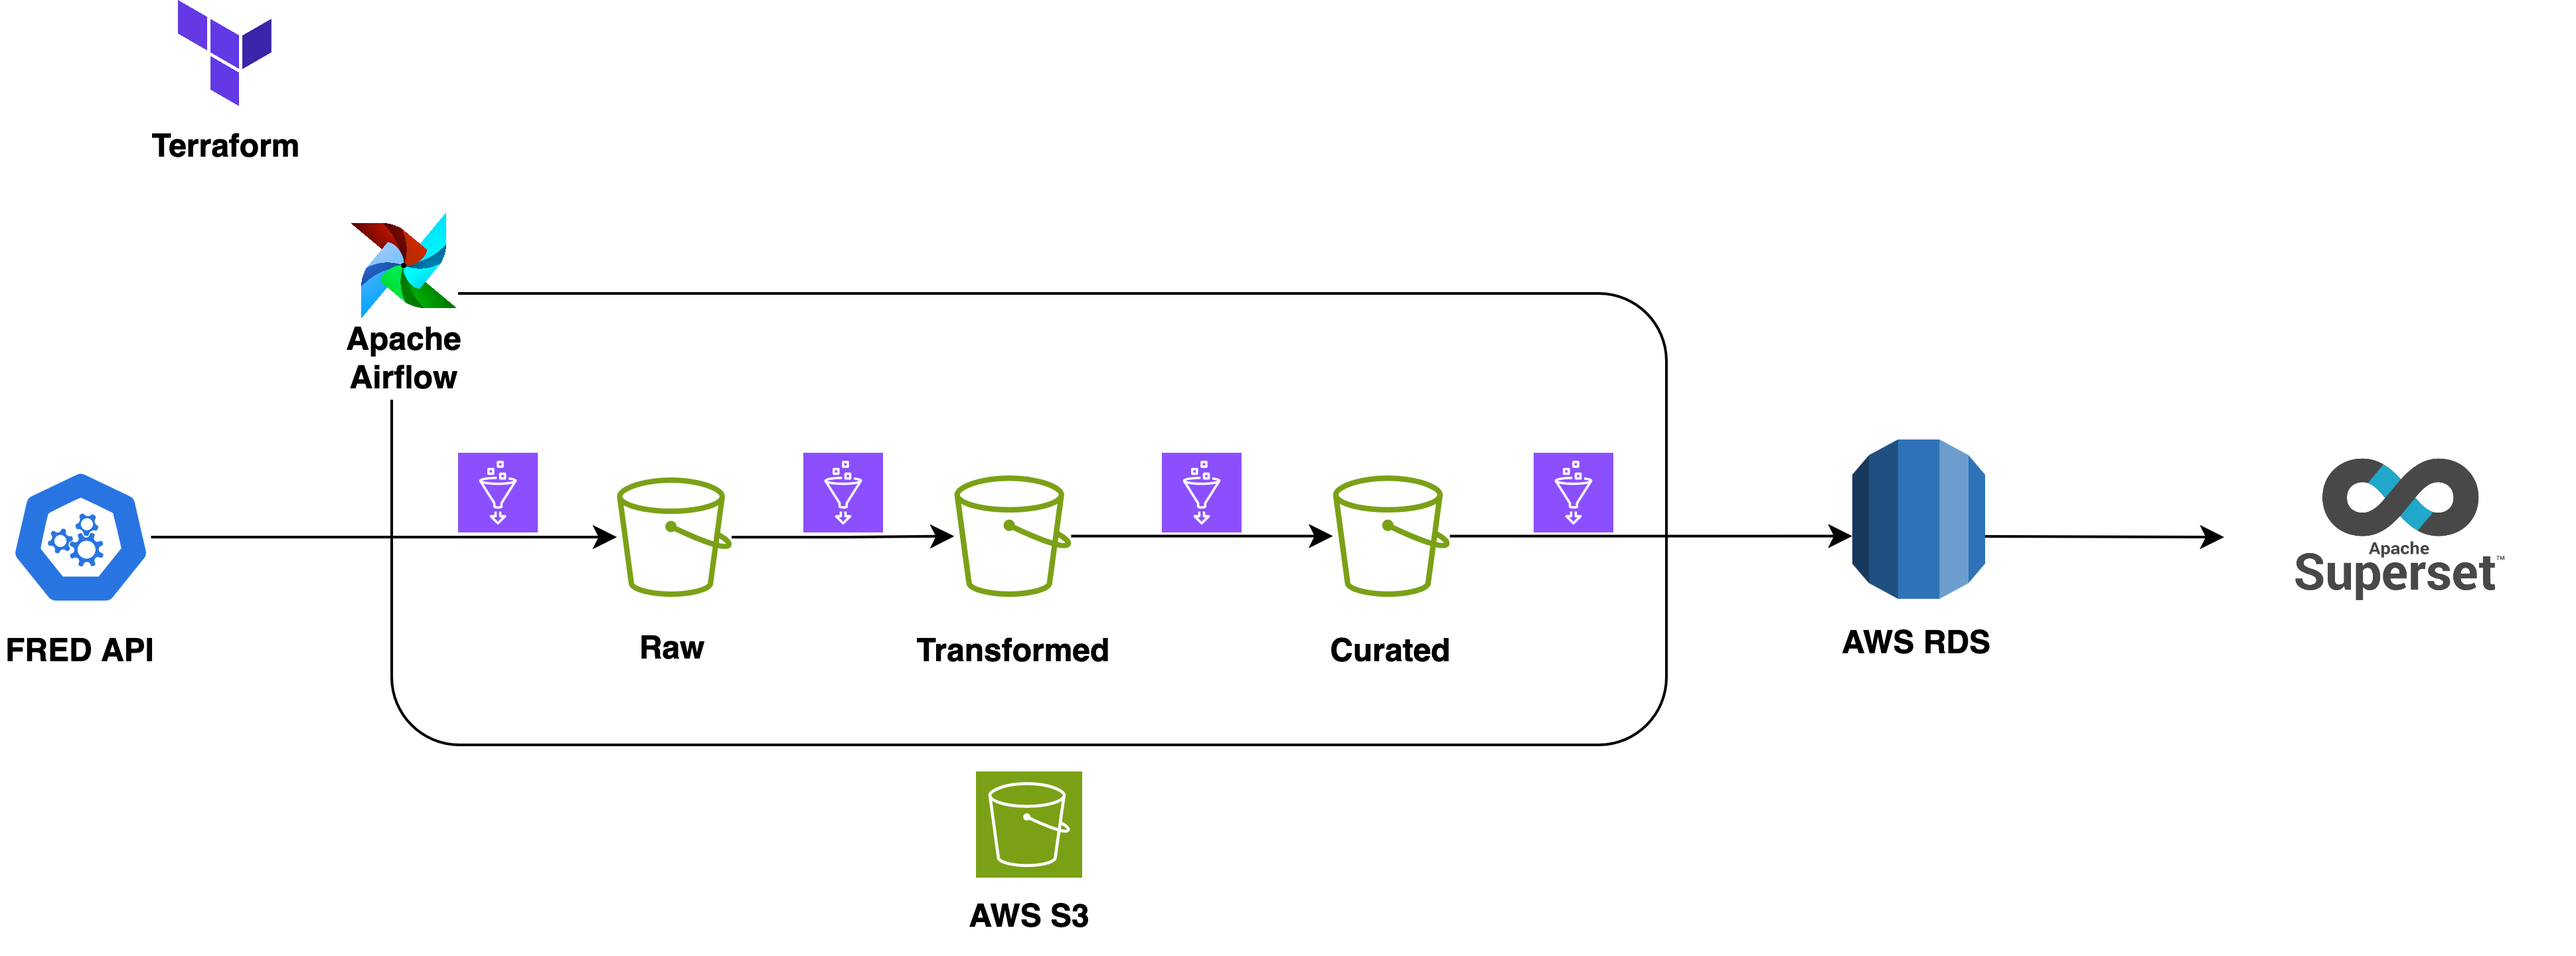
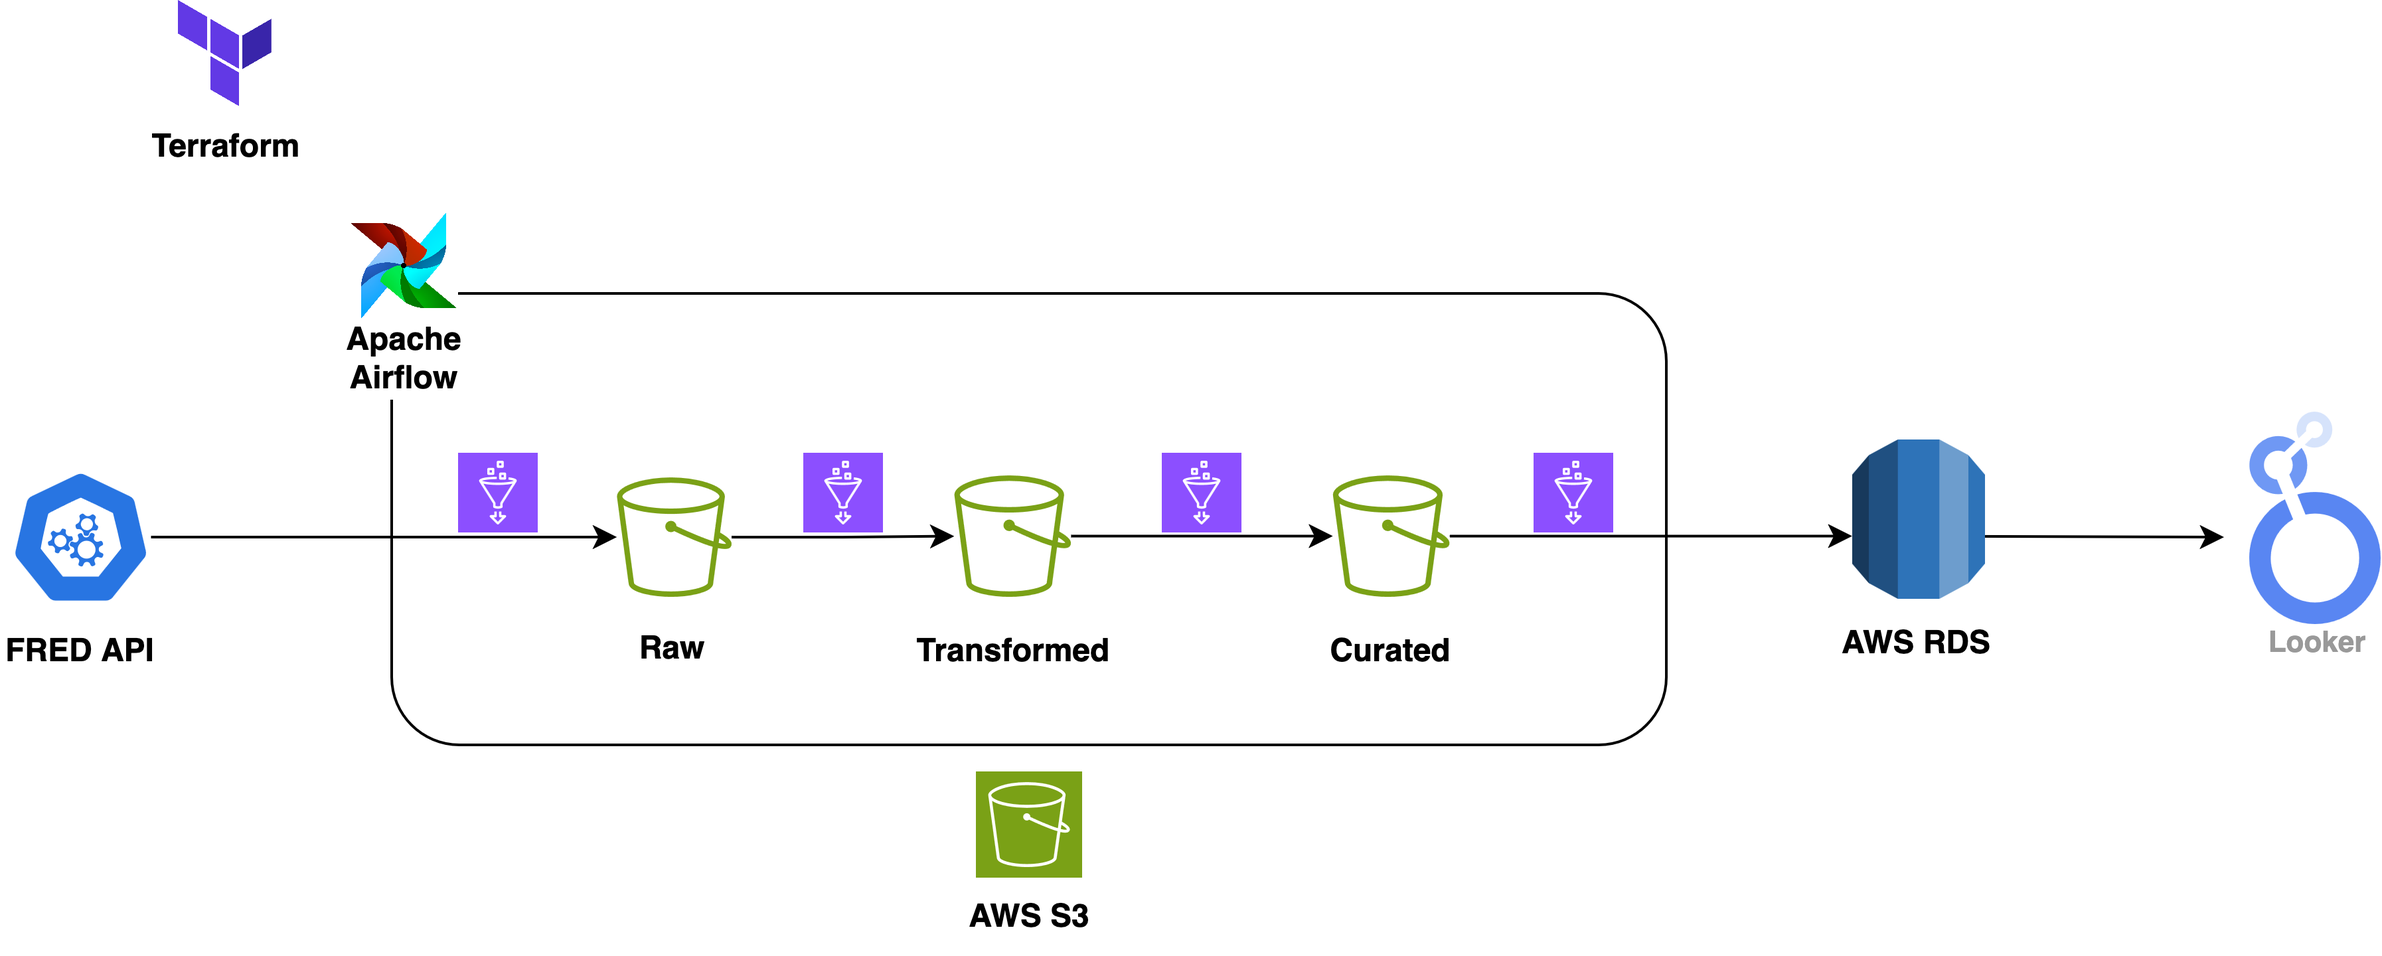
chore: Update README with Looker Studio information and revised architecture diagram

diff --git a/README.md b/README.md
@@ -1,4 +1,6 @@
-# Automated Financial and Economic Indicator Dashboard using AWS and Preset
+# Automated Financial and Economic Indicator Dashboard using AWS, Airflow, Terraform and Looker Studio
+
+## [Live Looker Studio Report](https://lookerstudio.google.com/reporting/8a3e2e21-7502-4573-9bd3-34a732eb2d57)
 
 ## Background
 
@@ -23,13 +25,13 @@ Investors need quick access to key financial indicators without sifting through 
 
 ## Project Overview
 
-This project builds an automated data pipeline to track financial and economic indicators over time. The data is ingested from the [FRED API](https://fred.stlouisfed.org/docs/api/fred/), stored in an S3-based data lake, and then transformed across multiple layers (bronze, silver, gold). Finally, the transformed data is stored in an RDS database for analysis and reporting.  An interactive Preset dashboard visualizes key economic indicators, helping investors track trends and make data-driven decisions.
+This project builds an automated data pipeline to track financial and economic indicators over time. The data is ingested from the [FRED API](https://fred.stlouisfed.org/docs/api/fred/), stored in an S3-based data lake, and then transformed across multiple layers (bronze, silver, gold). Finally, the transformed data is stored in an RDS database for analysis and reporting.  An interactive Looker Studio dashboard visualizes key economic indicators, helping investors track trends and make data-driven decisions.
 
 The core components of the project include:
 - **Data Ingestion**: Fetching data from external APIs (FRED) and storing it in Amazon S3
 - **Data Transformation**: Using AWS Glue scripts to clean and prepare the data across the various layers of the data lake
 - **Data Storage**: Storing the transformed data in Amazon RDS for further analysis and reporting
-- **Dashboard**: Visualizing the financial indicators using Preset
+- **Dashboard**: Visualizing the financial indicators using Looker Studio
 - **Automation**: Managing the data pipeline and ensuring regular updates using Apache Airflow, running in a container on an EC2 instance
 - **Infrastructure as Code**: Automating the provisioning and management of AWS resources (S3, Glue, RDS, EC2) using Terraform.
 
@@ -44,7 +46,7 @@ The core components of the project include:
   - **EC2**: Hosts the Apache Airflow container for workflow orchestration and data pipeline management
   - **Cloudwatch**: Monitors EC2 and RDS instances, along with tracking billing metrics
   - **SNS**: Sends email alerts regarding the status of AWS resources
-- **Dashboard**: Apache Superset ([Preset](https://preset.io/)) for data visualization
+- **Dashboard**: Looker Studio for data visualization
 - **Infrastructure as Code**: Terraform for provisioning cloud resources
 
 ---
@@ -63,7 +65,7 @@ To run this project, you need the following:
 
 - **AWS Credentials:** Ensure you have configured your AWS credentials (access key ID and secret access key) with appropriate permissions to create the necessary resources (S3, RDS, Glue, EC2, CloudWatch, SNS). You can set these up using environment variables, the [AWS CLI](https://docs.aws.amazon.com/cli/latest/userguide/getting-started-install.html) configuration, or an IAM role
 - **Terraform:** Install Terraform on your local machine. See the [Terraform website](https://www.terraform.io/downloads) for installation instructions
-- **Preset Account:** Create an account on [Preset's website](https://preset.io/). You'll need this to visualize the data
+- **Looker Studio Account:** Create an account on [Looker Studio](https://lookerstudio.google.com/). You'll need this to visualize the data
 - **FRED API Key:** Create an account on [FRED](https://fred.stlouisfed.org/docs/api/api_key.html) and request an API key
 
 ### Steps to Set Up
@@ -120,9 +122,9 @@ To run this project, you need the following:
       }
       ```
 
-5. **Preset Database Connection**:
+5. **Looker Studio Database Connection**:
 
-    - Log in to your Preset account and follow Preset's instructions to connect to your RDS PostgreSQL database. You'll need the RDS endpoint, database name, username, and password (which you configured through Terraform). This step is crucial and must be done after the DAGs have successfully run and populated the database.
+    - Log in to your Looker Studio account and follow [these](https://cloud.google.com/looker/docs/studio/connect-to-postgresql) instructions to connect to your RDS PostgreSQL database. Google's default PostgreSQL connector is not compatible with RDS, so you will likely need to use the SyncWith connector or an alternative PostgreSQL connector. You'll need the RDS endpoint, database name, username, and password (which you configured through Terraform). This step must be done after the DAGs have successfully run and populated the database.
 
 ---
 
@@ -131,7 +133,7 @@ To run this project, you need the following:
 Once the project is set up, you can perform the following tasks:
 
 - **Monitor the Pipeline**: Use Airflow to trigger and monitor the ETL pipeline and data transformations
-- **View Dashboards**: Access Preset to view trends for various financial indicators over time
-- **Generate Reports**: Configure Preset to run monthly reports and send them via email
+- **View Dashboards**: Create data visualizations in Looker Studio to view trends for various financial indicators over time
+- **Generate Reports**: Configure Looker Studio to run monthly reports and send them via email
 
 ---
